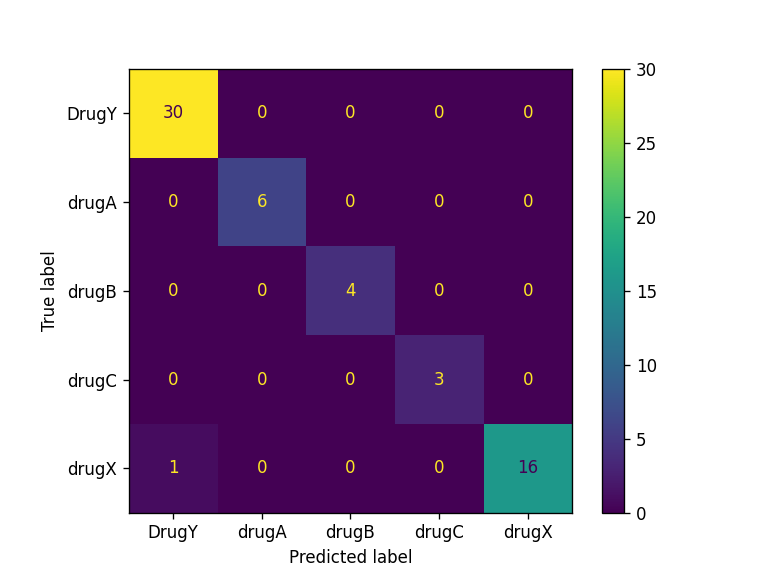
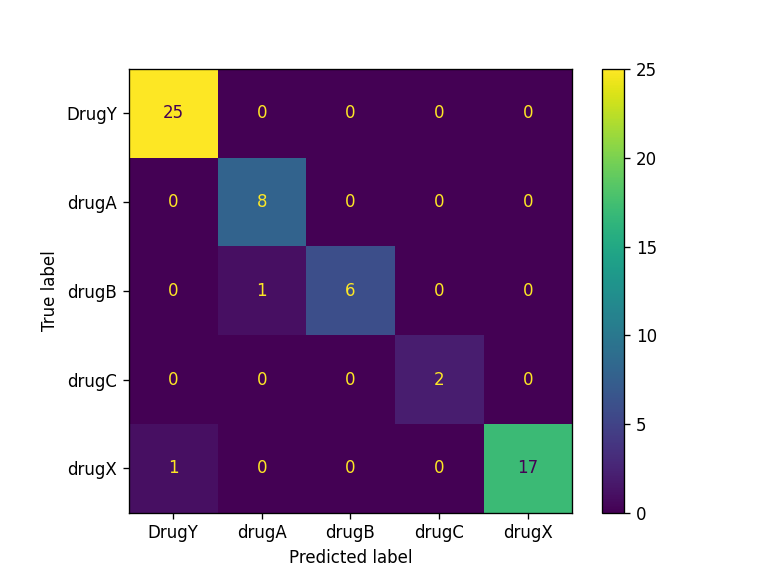
Update: evaluation results

diff --git a/report.md b/report.md
@@ -1,5 +1,5 @@
 ## Model Metrics
 
-Accuracy = 0.98, F1 Score = 0.99.
+Accuracy = 0.97, F1 Score = 0.96.
 ## Confusion Matrix Plot
 ![Confusion Matrix](./Results/model_results.png)
